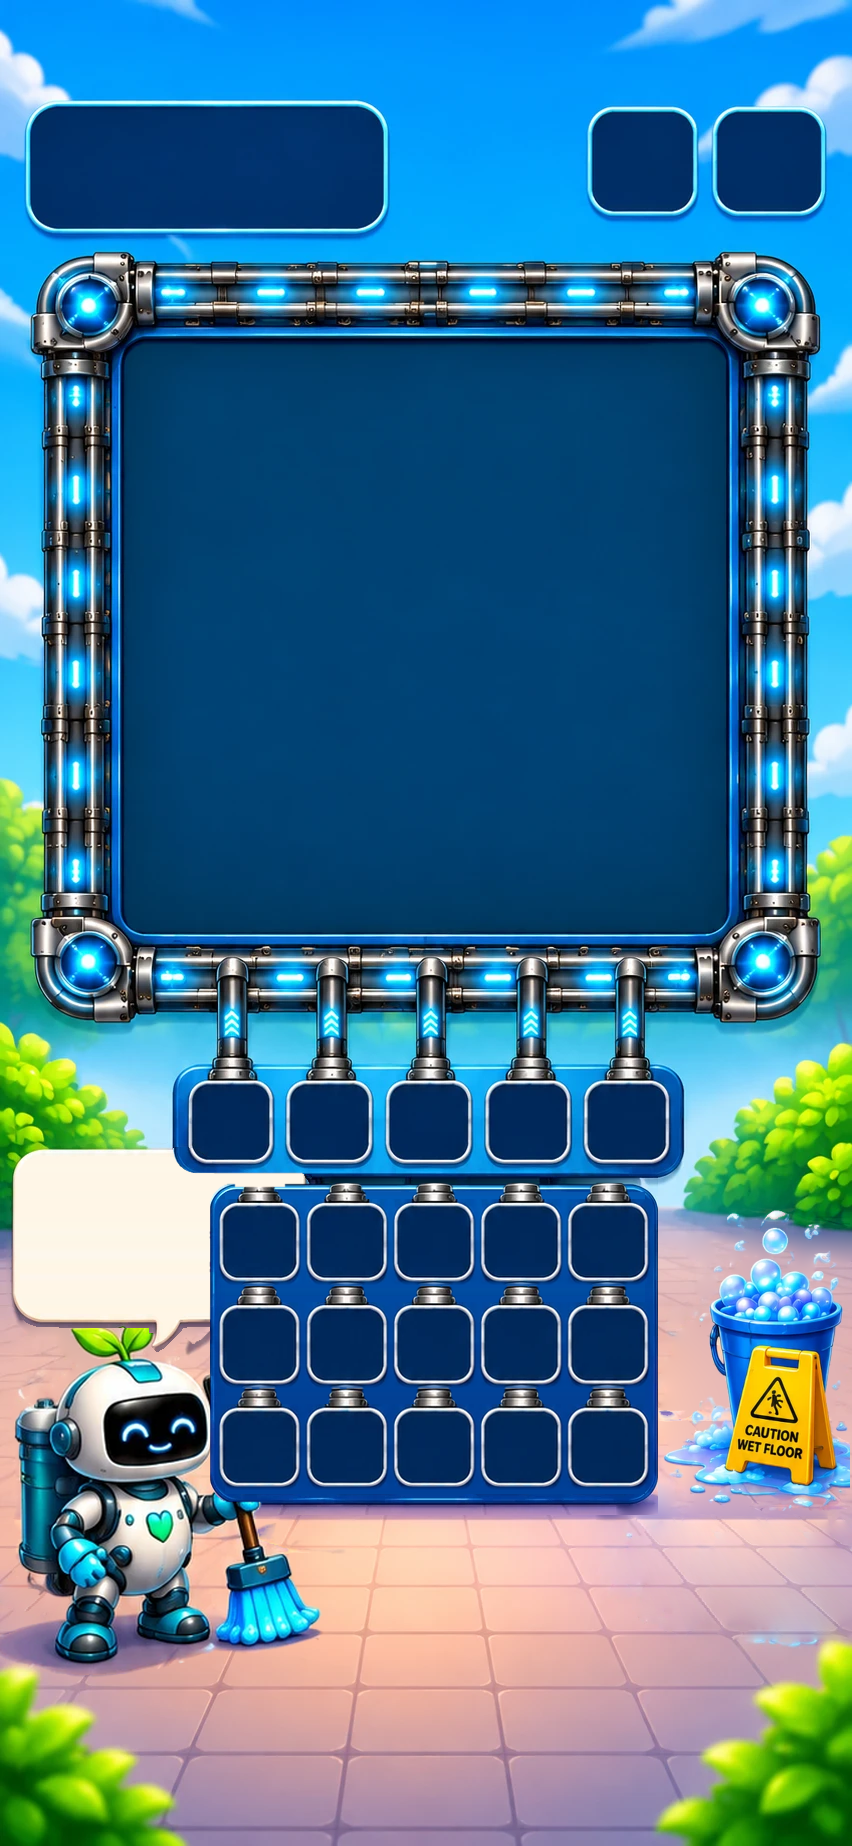
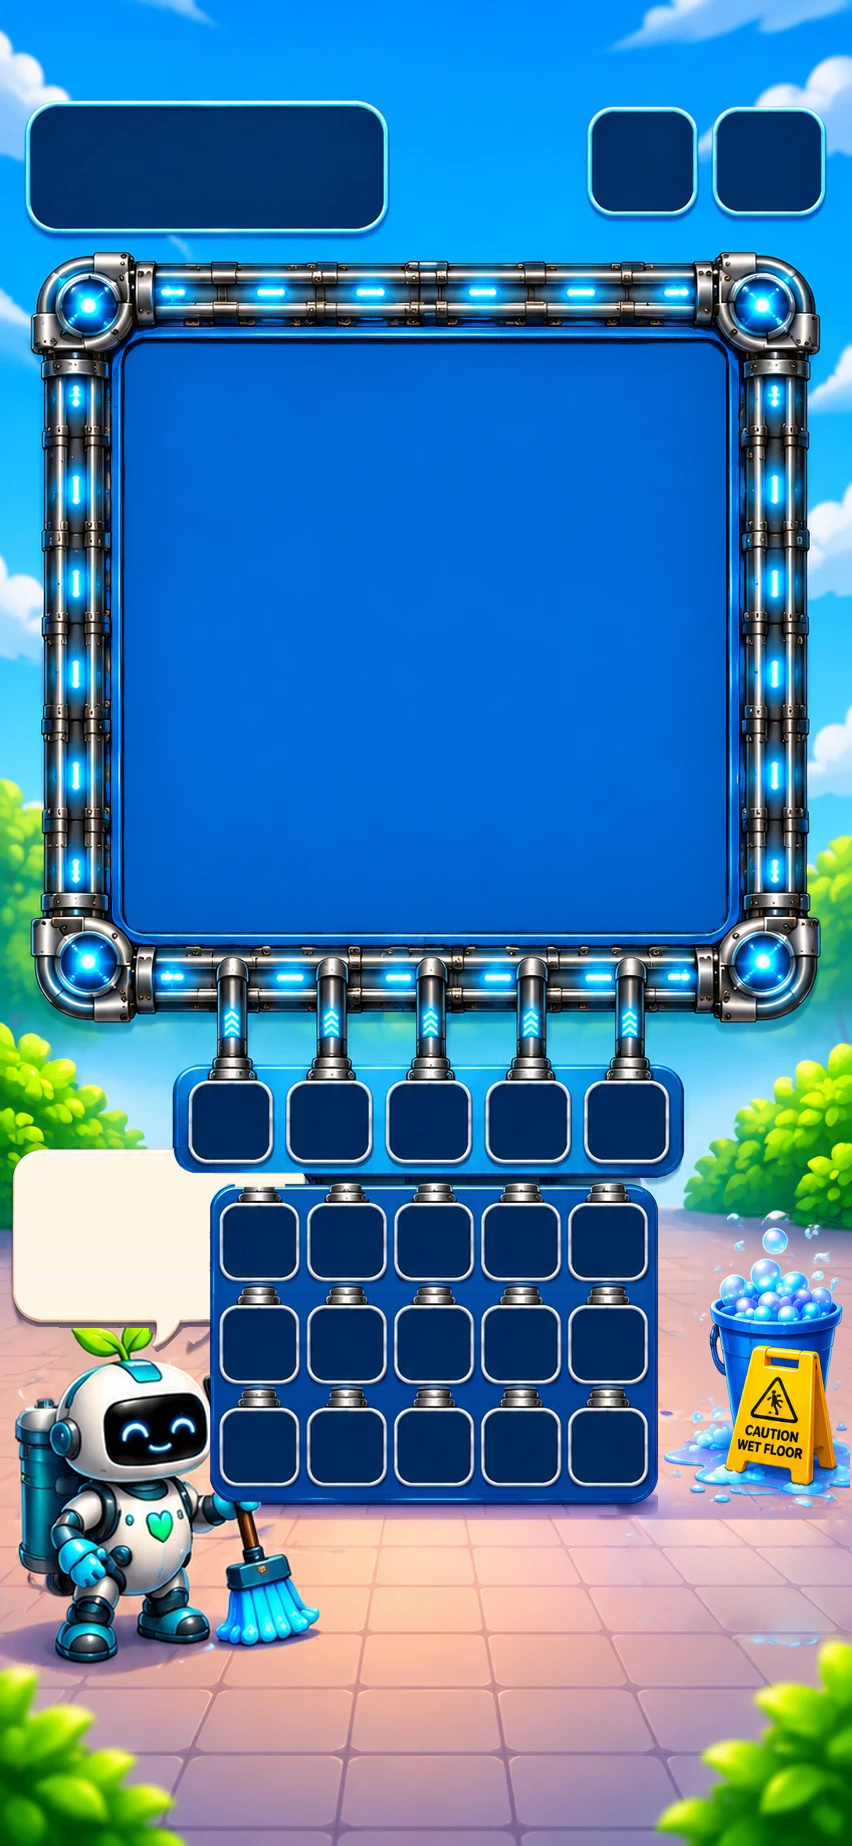
Board floor #0068D8 rail-glow blue (1.3:1 rule waived by owner), boosters centred under Supply (SB-TF-10)

Changed region(s): [[0.1221, 0.1544, 0.885, 0.5249]]

diff --git a/tools/gameplay_shell_masters.py b/tools/gameplay_shell_masters.py
@@ -3,8 +3,9 @@
 Only the owner's own pixels are used (no generation, no new characters):
   * clean plate  = owner image with Scrubby (+ shadow) and the bucket / Caution sign / puddle
                    lifted out (Poisson fill guided by the same floor row one tile period away),
-                   the slot-strip corner the bubble used to cover mirrored from the right corner,
-                   and the navy board interior lifted to BOARD_FLOOR_TONE 0.
+                   the slot-strip corner the bubble used to cover mirrored from the right corner.
+  * per variant, after the cut-joins below: the navy board interior lifted to
+                   BoardPresentation.BOARD_FLOOR (SB-TF-10).
   * 6 slots / 3 / 5 columns = the job-159 cut-joins (5 columns as re-tuned by job 163), applied
                    to the clean plate (unchanged code).
   * then, per variant, three owner layers composited back BEHIND the slot strip and Supply panel:
@@ -48,10 +49,10 @@ PROPS_OLD = (600, 1230, 845, 1625)
 PROPS_SCALE, PROPS_FOOT = 0.75, (845, 1625, 845, 1500)
 BUBBLE_SEAM, BUBBLE_WIDEN = 188, 90  # straight body column right of the tail; extra width
 STRIP_MIRROR = 857                   # strip is symmetric: x <-> 857 - x (192+665, 269+588)
-# Board floor: BoardPresentation.BOARD_FLOOR_TONES[0]; the baked navy field is lifted onto it.
+# Board floor: BoardPresentation.BOARD_FLOOR (SB-TF-10 owner rail-glow blue); the baked navy field is lifted onto it.
 BOARD_FIELD = (105, 318, 746, 946)
 NAVY = np.array([0, 55, 123])
-TONE0 = np.array([0, 66, 116])
+FLOOR = np.array([0, 104, 216])
 # One-point floor grid (vertical grout lines meet at y FLOOR_YH; period U per px below it).
 FLOOR_YH, FLOOR_U, FLOOR_GUIDE_Y0 = 1241.0, 0.304, 1500
 
@@ -276,12 +277,12 @@ def poisson_fill(a, hole, src_ok):
 
 
 def brighten_board(p):
-    """Lift the baked navy board field onto TONE0 (vignette and bevel kept)."""
+    """Lift the baked navy board field onto FLOOR (vignette and bevel kept)."""
     x0, y0, x1, y1 = BOARD_FIELD
     reg = p[y0:y1, x0:x1].astype(float)
     d = np.sqrt(((reg - np.array([1, 50, 112])) ** 2).sum(axis=2))
     wgt = np.clip(1.0 - (d - 25.0) / 25.0, 0.0, 1.0)[..., None]
-    p[y0:y1, x0:x1] = (reg + wgt * (TONE0 - NAVY)).clip(0, 255)
+    p[y0:y1, x0:x1] = (reg + wgt * (FLOOR - NAVY)).clip(0, 255)
     return p
 
 
@@ -401,7 +402,7 @@ def clean_plate(a):
     hull = bubble | scrubby | props
     p = poisson_fill(a, hull, floorish(a) & ~ndimage.binary_dilation(hull, iterations=6))
     p = mirror_strip_corner(p, a)
-    return brighten_board(p), bubble, scrubby, props
+    return p, bubble, scrubby, props
 
 
 def main(src_path, out_dir):
@@ -424,6 +425,8 @@ def main(src_path, out_dir):
         for cols, fn in supply.items():
             o = base if fn is None else fn(base)
             f = base_fg if fn is None else fn(base_fg)
+            # After the cut-joins, so the 6-slot seam search never sees the lifted field (SB-TF-10).
+            o = brighten_board(o.astype(float)).round().astype(np.uint8)
             behind = ndimage.gaussian_filter((f[..., 0] > 127).astype(float), 0.6)
             o = o.copy()
             put_item(o, scrubby, behind)   # the bubble overlaps the tip of his leaf

diff --git a/docs/MASTER_UI_SYSTEM.md b/docs/MASTER_UI_SYSTEM.md
@@ -123,15 +123,15 @@ BOTTOM
 ```
 
 SB-TF-04 gameplay-shell geometry (852x1846 reference px, all in `scripts/ui/gameplay_shell_geometry.gd`
-and `scripts/ui/gameplay_screen.gd`): booster band `Shell.BOOSTERS` [332,1528,840,1648] right of
-Scrubby (button side = band height, never below `UiTokens.TOUCH_MIN`; order +1 Slot, Random,
+and `scripts/ui/gameplay_screen.gd`): booster band `Shell.BOOSTERS` [172,1516,680,1636] directly under
+the Supply panel, centred on the screen, drawn over Scrubby (SB-TF-10) (button side = band height, never below `UiTokens.TOUCH_MIN`; order +1 Slot, Random,
 Selector, Tornado); Scrubby x1.25 at `SCRUBBY_ANCHOR` [14,1310,324,1654]; bucket + Caution sign
 x0.75 beside the Supply panel at `PROPS_ANCHOR` [661,1204,845,1500] (may overlap the 5-column
 panel); speech bubble behind the slot strip and Supply panel at `SPEECH_ANCHOR` [14,1150,304,1345]
 with the live text in `BUBBLE_HEADLINE_REF` [32,1178,206,1226] / `BUBBLE_INSTRUCTION_REF`
-[32,1230,206,1306] over the mask `Shell.BUBBLE_TEXT` [28,1174,208,1310]. Board floor: one selector
-`BoardPresentation.BOARD_FLOOR_TONE` into the four `BOARD_FLOOR_TONES` (brighter than BG01, every
-C01..C16 >= 1.3:1); the masters' navy field is baked to tone 0. The six masters are regenerated by
+[32,1230,206,1306] over the mask `Shell.BUBBLE_TEXT` [28,1174,208,1310]. Board floor: one constant
+`BoardPresentation.BOARD_FLOOR` #0068D8, the owner-picked rail-glow blue (SB-TF-10; owner waived
+the 1.3:1 C01..C16 contrast rule for it); the masters' navy field is baked to it. The six masters are regenerated by
 `tools/gameplay_shell_masters.py` from the owner plaza image.
 
 Normal visual/gameplay flow must read:

diff --git a/coordination/OWNER_GAMEPLAY_345_STATIC_MASTER_SHELL_V01.md b/coordination/OWNER_GAMEPLAY_345_STATIC_MASTER_SHELL_V01.md
@@ -322,3 +322,25 @@ place (tested). The owner-locked SHA-256 of §10 is superseded by:
 
 The ad band left the master: the banner is screen-space UI (`HomeStyle.ad_banner`). Tests:
 `tests/sb_tf04_gameplay_layout.gd`.
+
+## 12. Owner amendment 2026-11-19: board floor and booster row (SB-TF-10)
+
+Owner rejected the four SB-TF-04 floor tones and picked the blue of the baked rail glow (the tube
+lights): the board floor is `BoardPresentation.BOARD_FLOOR` #0068D8 (sampled dominant rail-glow
+colour; cyan core #00A8F8), one constant. Owner waiver: the SB-TF-04 rule that every C01..C16
+keeps >= 1.3:1 contrast against the floor does not apply to this owner-picked tone. The six masters
+are regenerated by `tools/gameplay_shell_masters.py` (navy board field lifted to #0068D8; nothing
+else changes). The booster row moves directly under the Supply panel, centred on the screen:
+`Shell.BOOSTERS` [172,1516,680,1636] (same 508x120 band); it may draw over Scrubby, never over
+the Supply panel, slots or the bottom banner. The SHA-256 of §11 is superseded by:
+
+| id | SHA-256 |
+|---|---|
[6 lines of base64/hex data omitted]
+
+Tests: `tests/sb_tf04_gameplay_layout.gd`.
